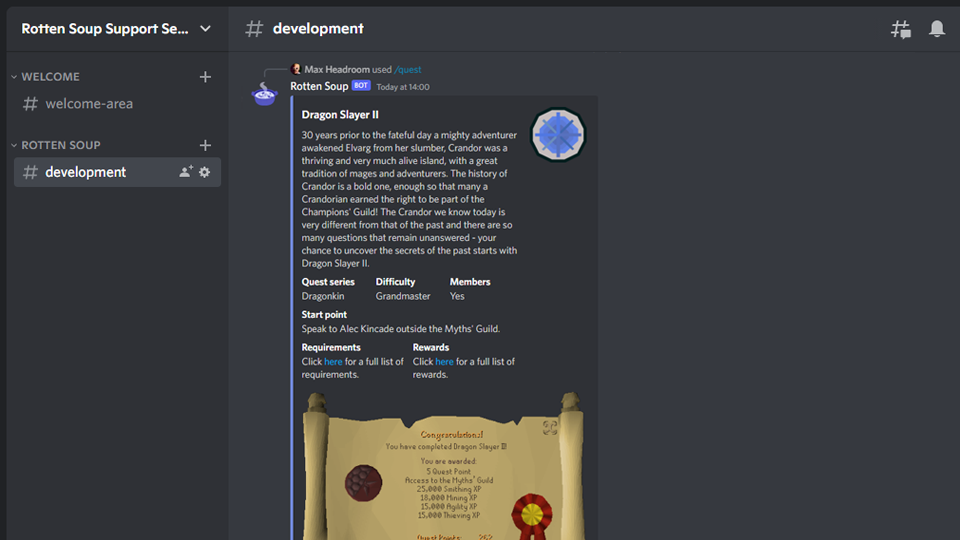
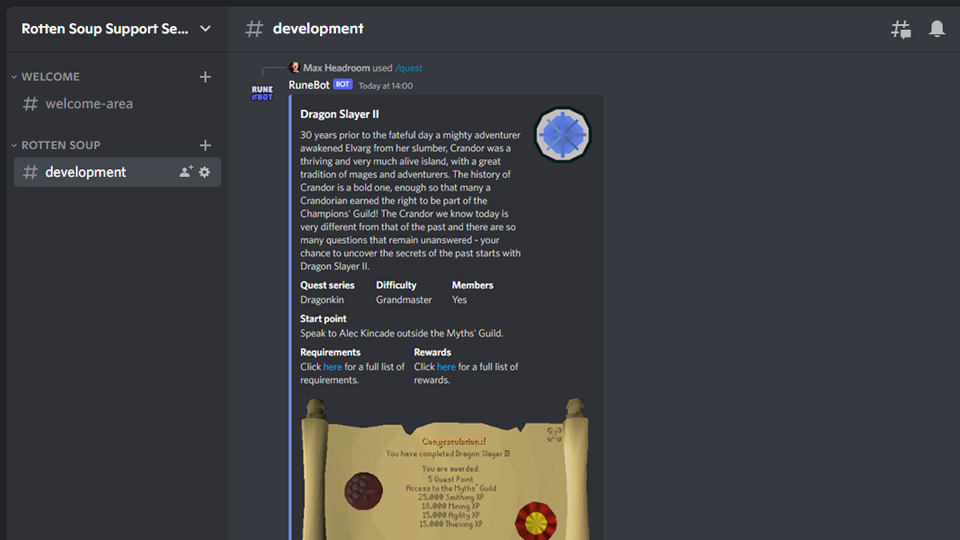
🔧 Update: Name change to Runebot

Changed region(s): [[0.25, 0.1185, 0.625, 1.0]]

diff --git a/src/cogs/price.py b/src/cogs/price.py
@@ -81,6 +81,7 @@ class Price(commands.Cog, name='price'):
         ]
     )
     async def price_slash(self, inter: ApplicationCommandInteraction, *, query):
+        inter.response.defer
         embed, view, file = Price.price_data(query)
         await inter.response.send_message(embed=embed, view=view, file=file)
         file.close()

diff --git a/README.md b/README.md
@@ -1,15 +1,15 @@
 
-<p align="center"><img src="https://github.com/tarranprior/discord-rotten-soup/blob/main/assets/rottensoup-banner.png" /></p>
-<h1 align="center">RottenSoup</h1>
+<p align="center"><img src="https://github.com/tarranprior/runebot/blob/main/assets/banner.png" /></p>
+<h1 align="center">Runebot</h1>
 
-<a href="https://github.com/tarranprior/discord-rotten-soup/releases"><p align="center">![Version](https://img.shields.io/badge/Latest%20Version-v1.0.1-7289da?style=for-the-badge)</a>
+<a href="https://github.com/tarranprior/runebot/releases"><p align="center">![Version](https://img.shields.io/badge/Latest%20Version-v1.0.1-7289da?style=for-the-badge)</a>
 <a href="https://www.python.org/downloads/">![Python](https://img.shields.io/badge/made%20with-python%203.8-7289da?style=for-the-badge&logo=python&logoColor=ffdd54)</a>
-<a href="https://github.com/tarranprior/discord-rotten-soup/blob/main/LICENSE">![License](https://img.shields.io/badge/license-CC%20BY%20NC%20SA%203.0-7289da?style=for-the-badge)</p></a>
+<a href="https://github.com/tarranprior/runebot/blob/main/LICENSE">![License](https://img.shields.io/badge/license-CC%20BY%20NC%20SA%203.0-7289da?style=for-the-badge)</p></a>
 </p>
 <p align="center"><a href="#introduction">Introduction</a> • <a href="#key-features">Features</a> • <a href="#prerequisites">Prerequisites</a> • <a href="#tools">Tools</a> • <a href="#disclaimer">Disclaimer</a> • <a href="#installation">Installation</a> • <a href="#usage">Usage</a> • <a href="#support">Support</a> • <a href="#license">License</a> • <a href="#references">References</a></p>
 
 ## Introduction
-RottenSoup is a Discord tool which scrapes and displays information about Old School RuneScape. Built with Python and Beautiful Soup 4.
+Runebot is a feature-rich Discord tool which scrapes, pulls and displays information about Old School RuneScape. Built with Python and Beautiful Soup 4.
 
 ## Key Features
 - Search for items and equipment, activities, bosses and more directly on discord.
@@ -37,8 +37,8 @@ RuneScape and RuneScape Old School are the trademarks of Jagex Limited and are u
 ## Installation
 Preferably, you should use Poetry to run this bot for local development:
 
-1. Clone the repository. `git clone https://github.com/tarranprior/discord-rotten-soup.git`
-2. Navigate to the project folder. `cd discord-rotten-soup`
+1. Clone the repository. `git clone https://github.com/tarranprior/runebot.git`
+2. Navigate to the project folder. `cd runebot`
 3. Install the dependencies:
 
     ```s
@@ -100,40 +100,38 @@ Preferably, you should use Poetry to run this bot for local development:
 
 ## Screenshots
 
-> RottenSoup has built-in usability features including dropdowns, buttons, dynamic colours and more. Search for items, equipment, monsters, NPCs, pets and followers, skills etc. Directly from the official wiki for the most up to date information.
+> Runebot has built-in usability features including dropdowns, buttons, dynamic colours and more. Search for items, equipment, price data, monsters, NPCs, pets and followers, skills etc. Directly from the official wiki for the most up to date information.
 > <br /><br />
-> <img src="https://github.com/tarranprior/discord-rotten-soup/blob/main/assets/screenshots/demo1.png" />
+> <img src="https://github.com/tarranprior/runebot/blob/main/assets/screenshots/demo1.png" />
 > <br /><br />
-> <img src="https://github.com/tarranprior/discord-rotten-soup/blob/main/assets/screenshots/demo2.png" />
+> <img src="https://github.com/tarranprior/runebot/blob/main/assets/screenshots/demo2.png" />
 > <br/><br/>
-> <img src="https://github.com/tarranprior/discord-rotten-soup/blob/main/assets/screenshots/demo3.png" />
+> <img src="https://github.com/tarranprior/runebot/blob/main/assets/screenshots/demo3.png" />
 > <br/><br/>
-> Supports NPCs, followers and pets, skills etc.
+> <img src="https://github.com/tarranprior/runebot/blob/main/assets/screenshots/demo4.png" />
 > <br /><br />
-> <img src="https://github.com/tarranprior/discord-rotten-soup/blob/main/assets/screenshots/demo4.png" />
+> <img src="https://github.com/tarranprior/runebot/blob/main/assets/screenshots/demo5.png" />
 > <br /><br />
-> <img src="https://github.com/tarranprior/discord-rotten-soup/blob/main/assets/screenshots/demo5.png" />
-> <br /><br />
-> <img src="https://github.com/tarranprior/discord-rotten-soup/blob/main/assets/screenshots/demo6.png" />
+> <img src="https://github.com/tarranprior/runebot/blob/main/assets/screenshots/demo6.png" />
 > <br/><br/>
-> Fetches the latest price trends and uses data visualisation.
+> <img src="https://github.com/tarranprior/runebot/blob/main/assets/screenshots/demo7.png" />
 > <br /><br />
-> <img src="https://github.com/tarranprior/discord-rotten-soup/blob/main/assets/screenshots/demo7.png" />
+> <img src="https://github.com/tarranprior/runebot/blob/main/assets/screenshots/demo8.png" />
 > <br /><br />
-> <img src="https://github.com/tarranprior/discord-rotten-soup/blob/main/assets/screenshots/demo8.png" />
+> <img src="https://github.com/tarranprior/runebot/blob/main/assets/screenshots/demo9.png" />
 > <br /><br />
-> Look up quests and rewards.
+> <img src="https://github.com/tarranprior/runebot/blob/main/assets/screenshots/demo10.png" />
 > <br /><br />
-> <img src="https://github.com/tarranprior/discord-rotten-soup/blob/main/assets/screenshots/demo9.png" />
+> <img src="https://github.com/tarranprior/runebot/blob/main/assets/screenshots/demo11.png" />
 > <br /><br />
-> <img src="https://github.com/tarranprior/discord-rotten-soup/blob/main/assets/screenshots/demo10.png" />
+> <img src="https://github.com/tarranprior/runebot/blob/main/assets/screenshots/demo12.png" />
 
 
 ## Support
-If you have any questions about this template, please submit an issue [here](https://github.com/tarranprior/discord-rotten-soup/issues).<br/>
+If you have any questions about this template, please submit an issue [here](https://github.com/tarranprior/runebot/issues).<br/>
 
 ## License
-This project is licensed under the CC BY-NC-SA 3.0 License - see the [LICENSE](https://github.com/tarranprior/discord-rotten-soup/blob/main/LICENSE) file for details.
+This project is licensed under the CC BY-NC-SA 3.0 License - see the [LICENSE](https://github.com/tarranprior/runebot/blob/main/LICENSE) file for details.
 
 ## References
 - Beautiful Soup Docs https://www.crummy.com/software/BeautifulSoup/bs4/doc/
